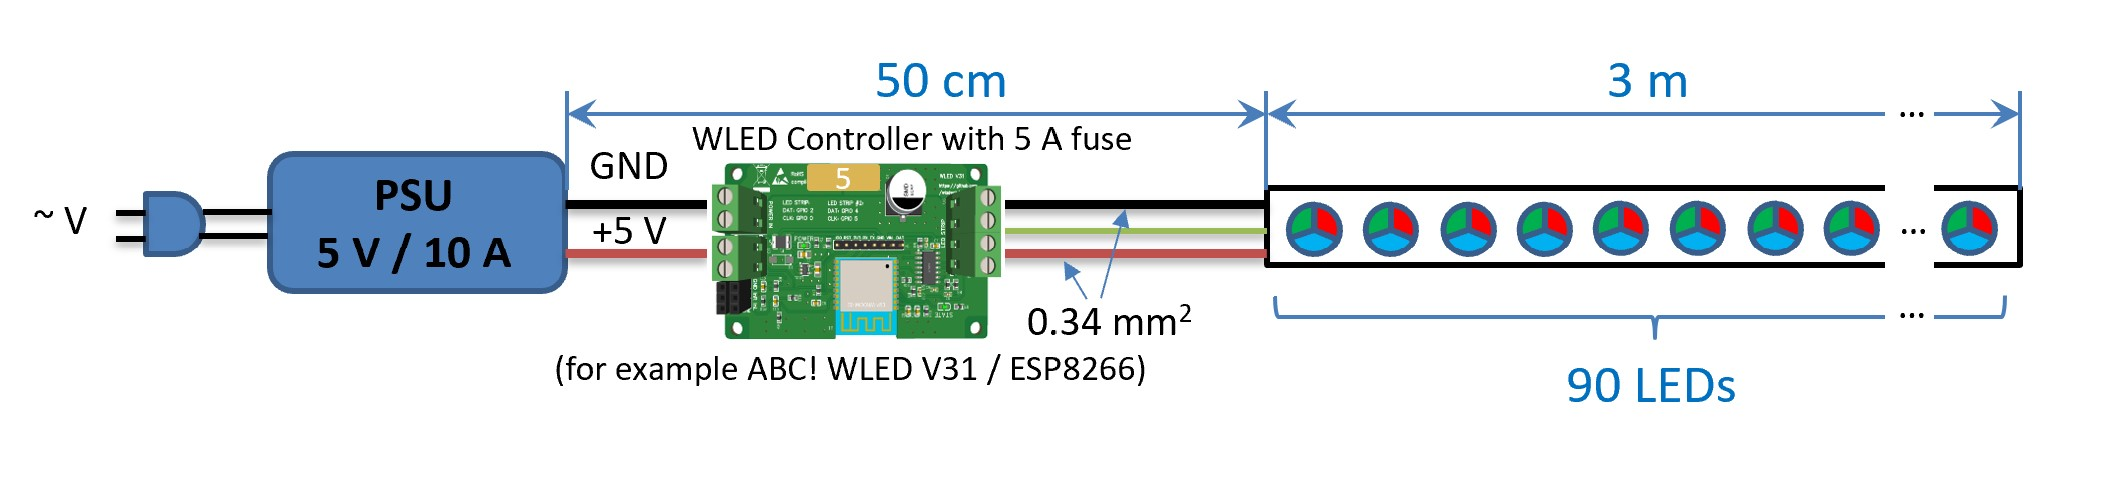
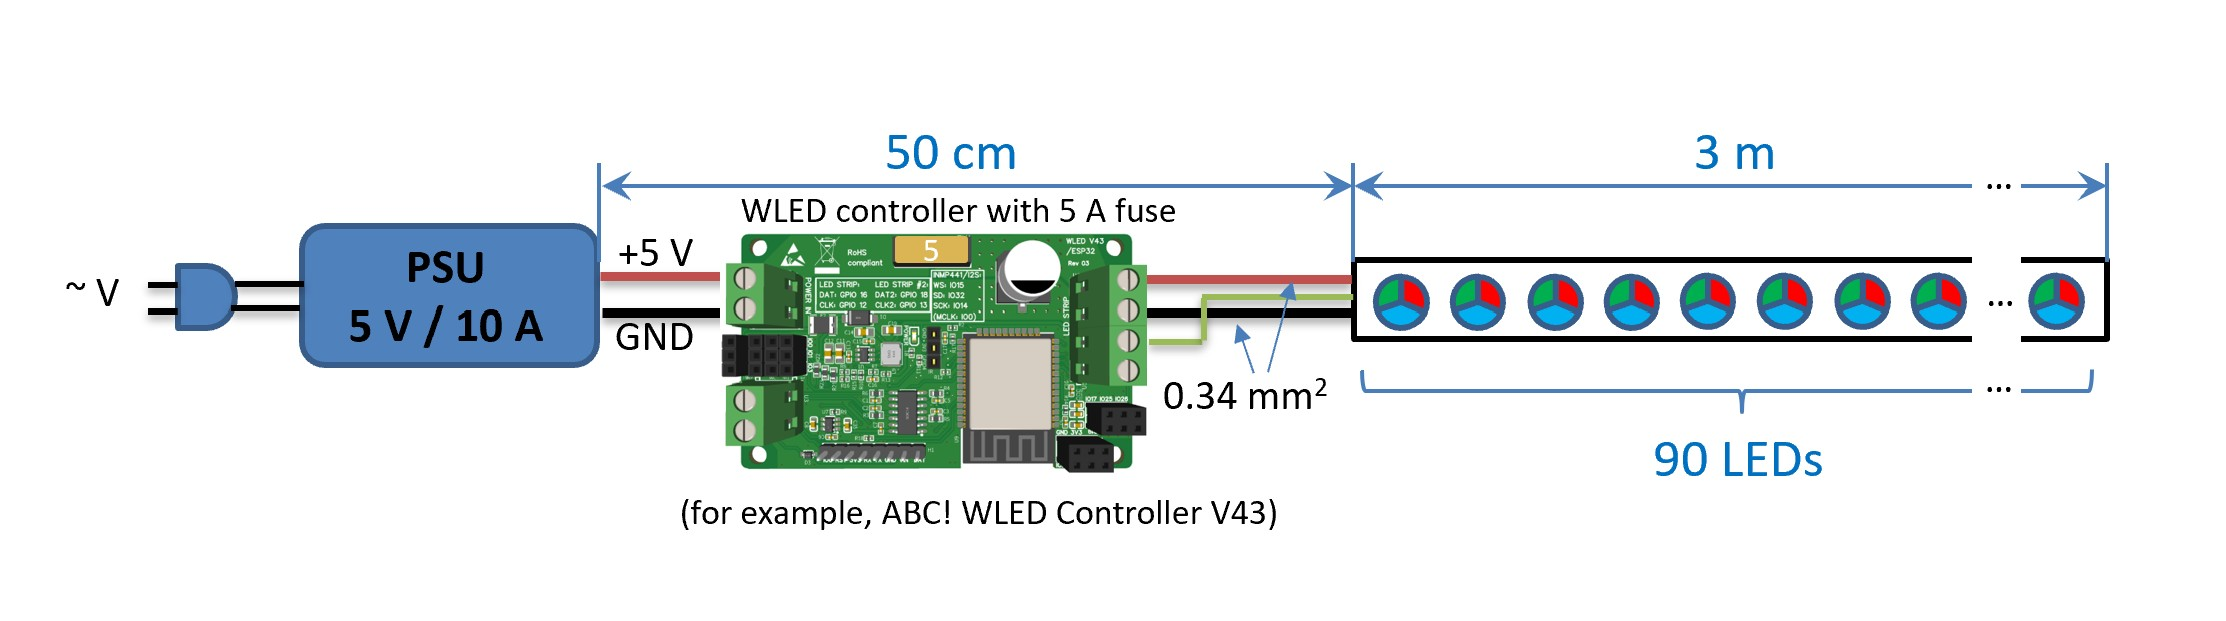
Add files via upload

Changed region(s): [[0.0309, 0.1205, 0.9568, 0.8434], [0.7407, 0.6928, 0.8333, 0.8133]]

diff --git a/examples_de.html b/examples_de.html
@@ -48,7 +48,7 @@
 		<br>
 		<img src="example1_3.jpg" class="img-fluid" alt="Beispiel1: Ergebnis 1" style="width:400px;">
 		<br>
-		Oder wenn z.B. ein Controller mit Sicherungsmöglichkeit verwendet werden soll (wie z.B. ein <a href="https://shop.myhome-control.de/ABC-WLED-Controller-V31-ESP8266/HW10002" target="_blank">ABC! WLED Controller Board V31</a>), kann die Sicherung direkt im Controller verwendet werden.
+		Oder wenn z.B. ein Controller mit Sicherungsmöglichkeit verwendet werden soll (wie z.B. ein <a href="https://shop.myhome-control.de/ABC-WLED-Controller-Board-5-24V/HW10015" target="_blank">ABC! WLED Controller Board V43</a>), kann die Sicherung direkt im Controller verwendet werden.
 		<br>
 		<img src="example1_4.jpg" class="img-fluid" alt="Beispiel1: Ergebnis 2" style="width:400px;">
 		<br>
@@ -78,7 +78,7 @@
 		<br>
 		<img src="example2_4.jpg" class="img-fluid" alt="Beispiel2: Ergebnis 2" style="width:400px;">
 		<br>
-		Die Sicherungen können im Kabel integriert werden oder man verwendet ein spezielles Sicherungsboard wie z.B. <a href="https://shop.myhome-control.de/Sicherungsboard-fuer-WLED-Controller/HW10010" target="_blank">dieses</a>.
+		Die Sicherungen können im Kabel integriert werden.
 		<br>
 	</div>
   </div>

diff --git a/examples_en.html b/examples_en.html
@@ -48,7 +48,7 @@
 		<br>
 		<img src="example1_3.jpg" class="img-fluid" alt="Example1: Solution 1" style="width:400px;">
 		<br>
-		Or if, for example, a controller with a fuse option is used (such as <a href="https://shop.myhome-control.de/ABC-WLED-Controller-V31-ESP8266/HW10002" target="_blank">ABC !WLED Controller Board V31</a>), the fuse can be used directly in the controller.
+		Or if, for example, a controller with a fuse option is used (such as <a href="https://shop.myhome-control.de/en/ABC-WLED-controller-board-5-24V/HW10015" target="_blank">ABC !WLED Controller Board V43</a>), the fuse can be used directly in the controller.
 		<br>
 		<img src="example1_4.jpg" class="img-fluid" alt="Example1: Solution 2" style="width:400px;">
 		<br>
@@ -78,7 +78,7 @@
 		<br>
 		<img src="example2_4.jpg" class="img-fluid" alt="Beispiel2: Ergebnis 2" style="width:400px;">
 		<br>
-		The fuses can be integrated into the cable or you can use a special fuse board such as <a href="https://shop.myhome-control.de/Sicherungsboard-fuer-WLED-Controller/HW10010" target="_blank">this one</a>.
+		The fuses can be integrated into the cable.
 	</div>
   </div>
   <hr>